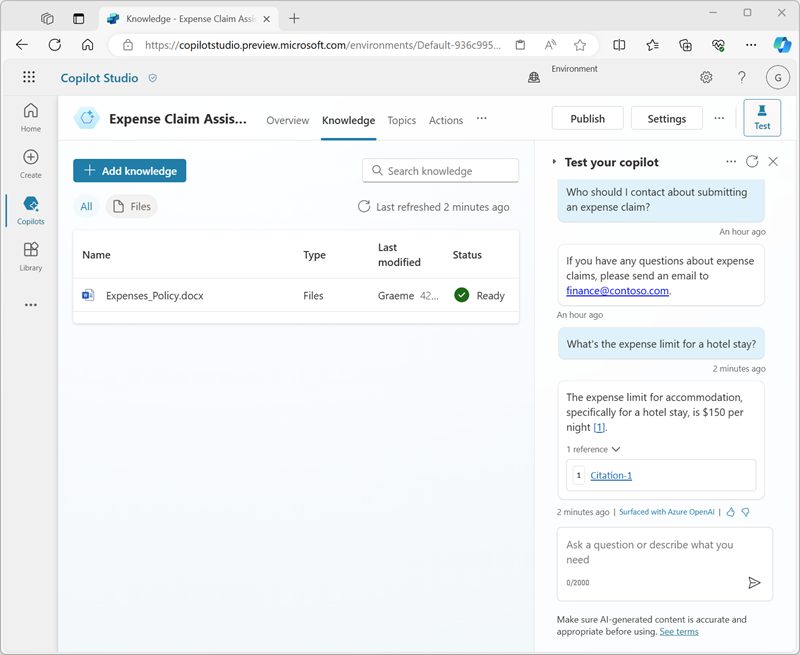
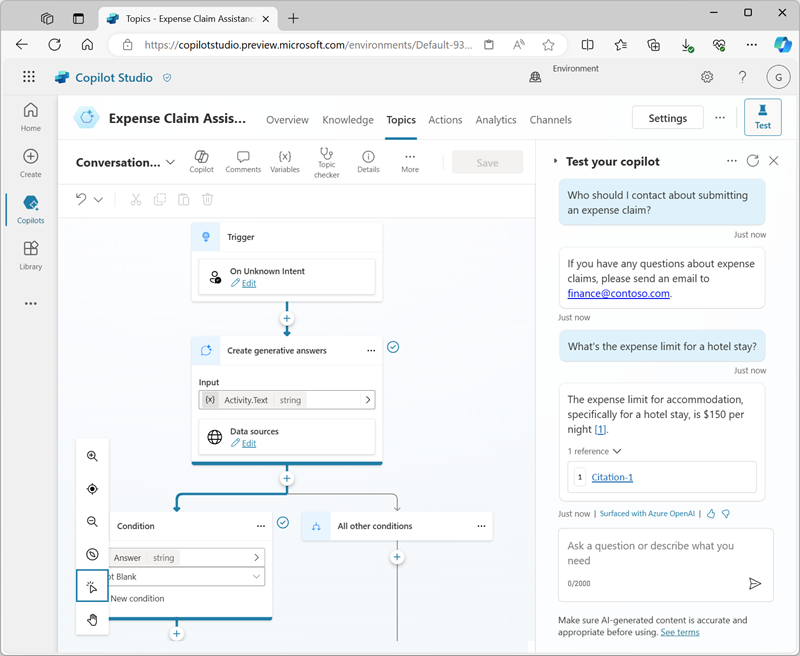
Minor tweaks

diff --git a/Instructions/Labs/01-create-copilot.md b/Instructions/Labs/01-create-copilot.md
@@ -158,7 +158,11 @@ You can add topics for all of the inputs that you expect a user to enter; but yo
 
     > **Note**: After uploading the file, you will need to wait while it is indexed; which may take 10 minutes (or longer). Now might be a good time to take a coffee break while you review the [expenses policy document](https://github.com/MicrosoftLearning/mslearn-copilotstudio/raw/main/expenses/Expenses_Policy.txt) at `https://github.com/MicrosoftLearning/mslearn-copilotstudio/raw/main/expenses/Expenses_Policy.txt` in another browser tab!
 
-1. When the file is ready, expand the **Test** pane and enter the following prompt:
+1. When the file is ready, view the **Topics** page and open the **Conversational boosting** system topic. Recall that this topic is triggered by an unknown intent, and then tries to create a generative AI response based on data sources containing knowledge; such as the file you uploaded.
+
+    > **Note**: If no relevant answer is found in the custom knowledge sources you have added, the topic may use the knowledge inherent in the language model to provide a more generic answer. You can configure the topic to restrict its search to specific knowledge stores if you want greater control over the generative AI responses it returns.
+
+1. Expand the **Test** pane and enter the following prompt:
 
     ```prompt
     What's the expense limit for a hotel stay?
@@ -168,7 +172,10 @@ You can add topics for all of the inputs that you expect a user to enter; but yo
 
     ![Screenshot of the test pane with a citation from a knowldge source.](media/test-knowledge.png)
 
-    > **Note**: The file you uploaded is used to provide knowledge to the copilot when the *Conversational boosting* topic is triggered. If no relevant answer is found in this knowledge source, the topic may use the knowledge inherent in the language model to provide a more generic answer. You can configure the topic to restrict its search to specific knowledge stores if you want greater control over the generative AI responses it returns.
+1. Try asking some follow-up questions, such as:
+    - `What about flights?`
+    - `What guidelines are there for entertainment expenses?`
+    - `How do I submit a claim?`
 
 ## Publish your copilot
 
@@ -205,7 +212,7 @@ Publishing will take a minute or so.
 
     ![Screenshot of the demo website for a copilot.](media/demo-website.png)
 
-1. Enter the message `What are the expense limits for flights?` and view the response.
+1. Enter the message `What are the expense limits for meals?` and view the response.
 1. Try a few more questions and view the responses from your copilot. It will have limited functionality, but should be able to provide relevant answers to questions about expense claims.
 
 ## Challenge
